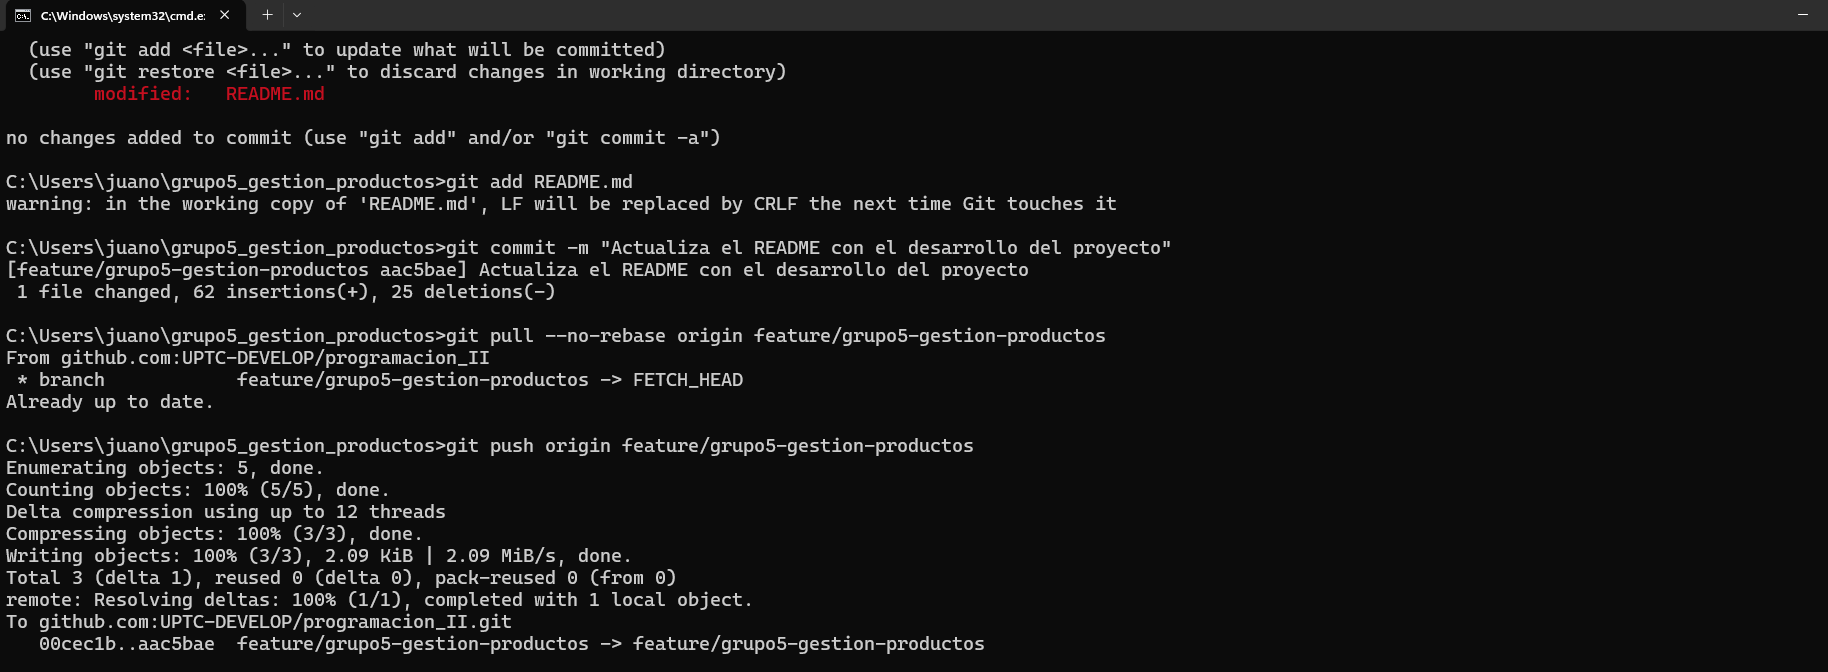
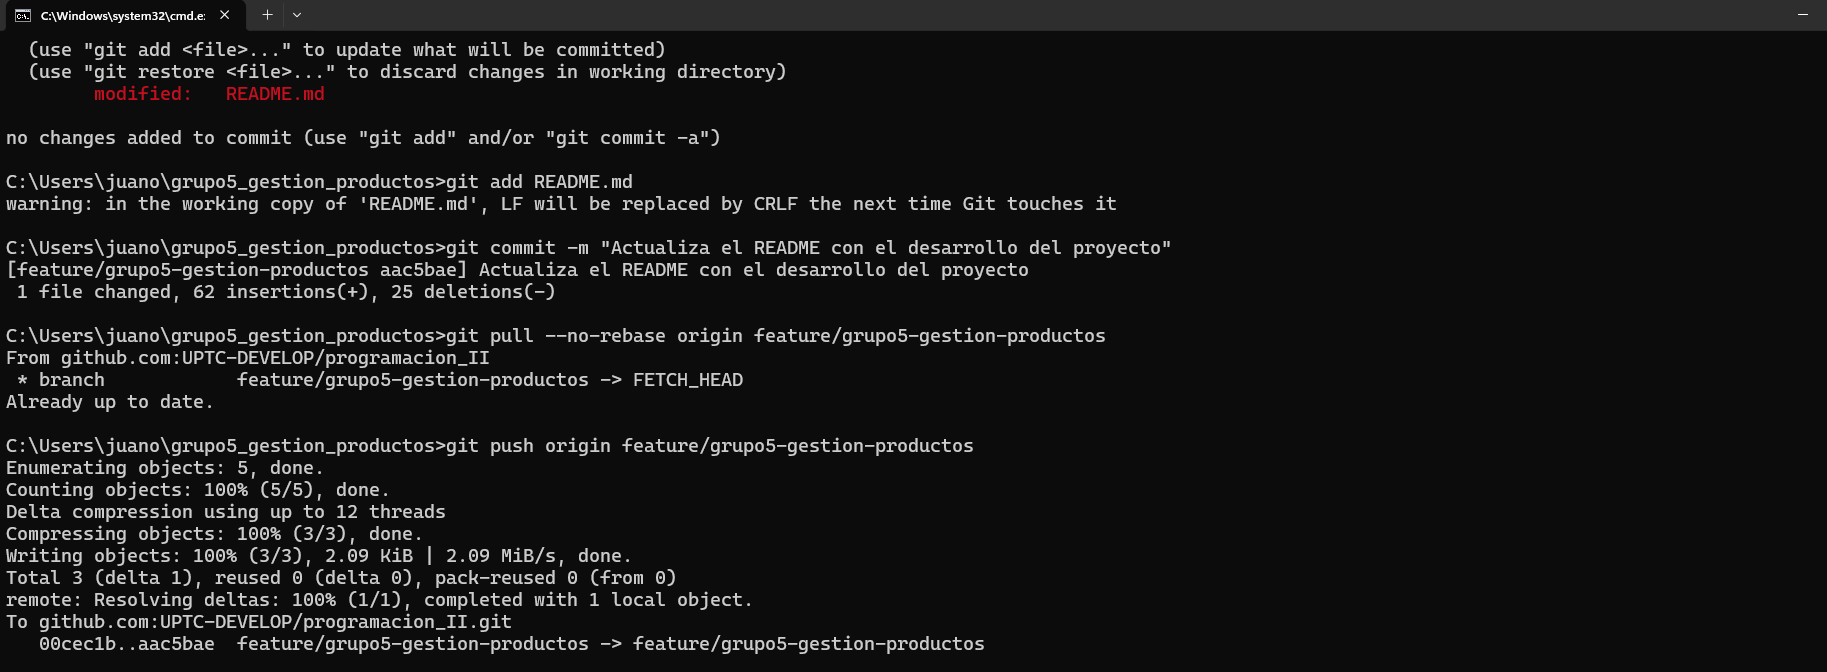
Agrega carpeta de evidencias (capturas de la terminal, Eclipse y historial de Git)

diff --git a/evidencias/README.md b/evidencias/README.md
@@ -1,0 +1,10 @@
+# Evidencias del parcial - Grupo 5 (Gestion de Productos)
+
+| Archivo | Descripcion |
+|---------|-------------|
+| `01_push_readme_terminal.png` | Terminal (cmd): commit y push del README del proyecto (Juan Pablo). |
+| `02_eclipse_producto_final.png` | Eclipse: `Producto.java` final con descuento e IVA aplicados (Juan Pablo). |
+| `03_push_liz_gitbash.png` | Terminal (Git Bash, Liz): commit y push de la interfaz (`VentanaPrincipal` y `Main`). |
+| `04_push_camilo_ucrt64.png` | Terminal (UCRT64, Camilo): correccion de `Producto.java` y push. |
+| `05_eclipse_camilo.png` | Eclipse (Camilo): `Producto.java` con el calculo del IVA. |
+| `06_historial_git.txt` | Historial de Git (grafo) que evidencia el conflicto y el commit de resolucion. |
